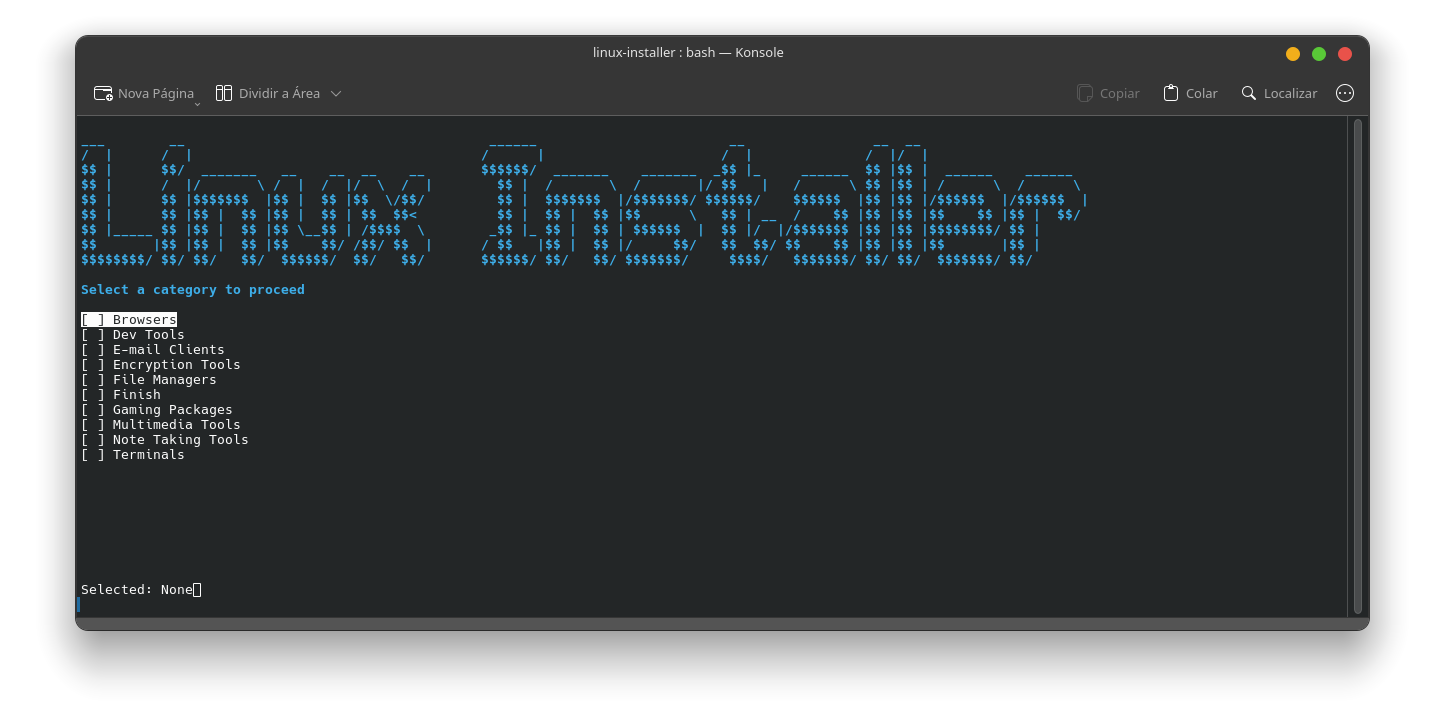
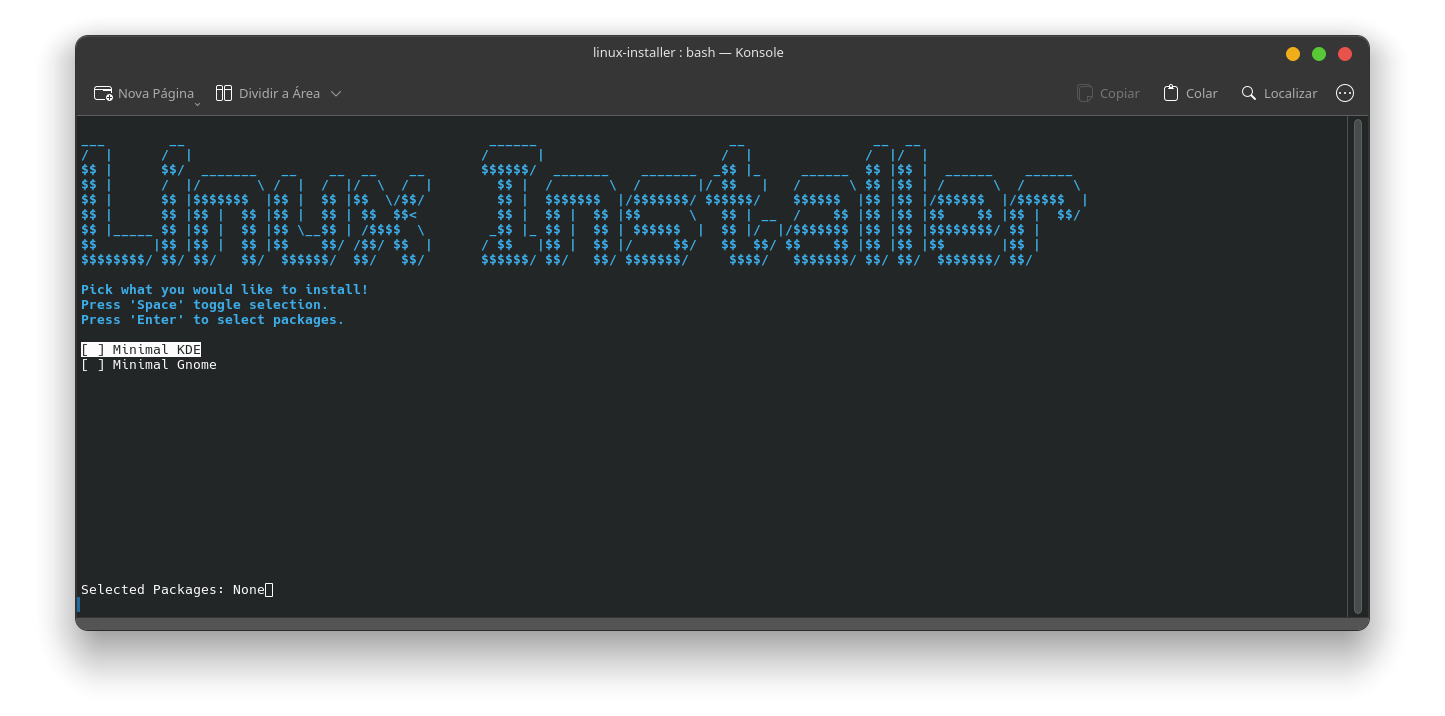
Added VPN clients section and other QoL updates

Changed region(s): [[0.0311, 0.3994, 0.2491, 0.6453], [0.0934, 0.7989, 0.1869, 0.8296]]

diff --git a/scripts/main/screen.py b/scripts/main/screen.py
@@ -146,7 +146,7 @@ class Screen:
             for idx, line in enumerate(instructions):
                 self.display_str(line, 0, FIRST_ROW + idx)
 
-            #? Display selection options. ('Name' field of the dictionary)
+            #? Display selection options. ('Name' field of the dictionary).
             for idx, env in enumerate(packages):
                 col = idx % max_columns
                 row = idx // max_columns + FIRST_ROW + len(instructions) + 1
@@ -160,7 +160,7 @@ class Screen:
                 except curses.error:
                     pass
 
-            #? Display selected packages summary
+            #? Display selected packages summary.
             selected_list = [env.get("Name", str(env)) for idx, env in enumerate(packages) if selected[idx]]
             summary_str = "Selected Packages: " + (", ".join(selected_list) if selected_list else "None")
             try:
@@ -191,20 +191,23 @@ class Screen:
 
         return selected_list
     
-    def display_categories(self, items, title="Select a category to proceed", max_columns=1):
+    def display_categories(self, items, title="Select a category to proceed", max_columns=1, multiple=False):
         """
-        Displays a list of items as togglable checkbox options in the terminal UI.
+        Displays a list of items as togglable options in the terminal UI.
 
         Args:
-            items (list): List of strings to display as checkbox items.
+            items (list): List of strings to display as options.
             title (str): Title to display above the list.
             max_columns (int): Number of columns for the checkbox grid.
+            multiple (bool): If True, allows multiple selections (checkboxes), 
+                            else allows only one selection (radio buttons).
 
         Returns:
-            list: List of selected item strings.
+            list or str: List of selected item strings if multiple is True, 
+                        or the selected item string if False.
         """
         current_row = 0
-        selected = [False] * len(items)
+        selected_indices = [] if multiple else -1  # Track multiple selections or single selection
         finished = False
 
         while not finished:
@@ -212,22 +215,31 @@ class Screen:
             self.display_ascii_menu()
             self.display_str(title, 0, FIRST_ROW)
 
-            #? Display checkbox items
+            # Display items with appropriate selection indicators
             for idx, item in enumerate(items):
                 col = idx % max_columns
                 row = idx // max_columns + FIRST_ROW + 2
                 if row >= self.height - 3:
                     break
-                checkbox = "[x]" if selected[idx] else "[ ]"
+
+                if multiple:
+                    checkbox = "[x]" if idx in selected_indices else "[ ]"
+                else:
+                    checkbox = "[x]" if idx == selected_indices else "[ ]"
+
                 attr = curses.A_REVERSE if idx == current_row else curses.A_NORMAL
                 try:
                     self.stdscr.addstr(row, col * (self.width // max_columns), f"{checkbox} {item}", attr)
                 except curses.error:
                     pass
 
-            #? Display selected summary
-            selected_list = [item for idx, item in enumerate(items) if selected[idx]]
-            summary_str = "Selected: " + (", ".join(selected_list) if selected_list else "None")
+            # Display selected summary
+            if multiple:
+                selected_list = [items[idx] for idx in selected_indices] if selected_indices else []
+                summary_str = "Selected: " + (", ".join(selected_list) if selected_list else "None")
+            else:
+                summary_str = f"Selected: {items[selected_indices]}" if selected_indices != -1 else "Selected: None"
+
             try:
                 self.stdscr.addstr(self.height - 2, 0, summary_str[:self.width])
             except curses.error:
@@ -245,11 +257,24 @@ class Screen:
             elif self.is_key_right(key, current_row, max_columns, items):
                 current_row += 1
             elif self.is_key_toggle_select(key):
-                selected[current_row] = not selected[current_row]
+                if multiple:
+                    if current_row in selected_indices:
+                        selected_indices.remove(current_row)  # Deselect
+                    else:
+                        selected_indices.append(current_row)  # Select
+                else:
+                    selected_indices = current_row  # Set selected index to current row for single selection
             elif self.is_key_select(key):
-                finished = True
+                if multiple or selected_indices != -1:  # Finish if multiple selection or valid single selection
+                    finished = True
 
-            self.stdscr.clear()
+            # Ensure current_row is within valid bounds
+            current_row = max(0, min(current_row, len(items) - 1))
 
         self.close()
-        return selected_list
+        
+        if multiple:
+            return [items[idx] for idx in selected_indices]  # Return list of selected items
+        if selected_indices != -1:
+            return items[selected_indices]  # Return format for single selection
+        return None  # Return None if no selection was made

diff --git a/scripts/main/installer.py b/scripts/main/installer.py
@@ -1,6 +1,6 @@
 from datetime import datetime
 import logging
-from packages import BROWSERS, DEV_TOOLS, EMAIL_CLIENTS, ENCRYPTION_TOOLS, FILE_MANAGERS, GAMING_PACKAGES, MULTIMEDIA_TOOLS, NOTE_TAKING_APPS, TERMINALS
+import packages
 import os
 import subprocess
 
@@ -36,9 +36,15 @@ class Installer:
             Path to the log file for installation logs.
         """
         self.DISTRO = os.environ['DISTRO_ID']
-        self.FONT_PKGS=["fonts-font-awesome", "fonts-recommended", "fonts-roboto", "fonts-terminus"]
-        self.UTILITY_PKGS=["curl", "flatpak", "git", "gpg", "libavcodec-extra", "libspa-0.2-bluetooth", "neofetch", "pipewire", "pipewire-alsa", "pipewire-pulse", "software-properties-common", "vim", "zram-tools"]
-        self.all_packages = BROWSERS + DEV_TOOLS + EMAIL_CLIENTS + ENCRYPTION_TOOLS + FILE_MANAGERS + GAMING_PACKAGES + MULTIMEDIA_TOOLS + NOTE_TAKING_APPS + TERMINALS
+        self.FONT_PKGS = []
+        self.UTILITY_PKGS = []
+        for item in packages.COMMON["FONTS"]:
+            if item["Distro"] == self.DISTRO:
+                self.FONT_PKGS=item["Packages"]
+        for item in packages.COMMON["UTILITY_PACKAGES"]:
+            if item["Distro"] == self.DISTRO:
+                self.UTILITY_PKGS=item["Packages"]
+        self.all_packages = packages.BROWSERS + packages.DEV_TOOLS + packages.EMAIL_CLIENTS + packages.ENCRYPTION_TOOLS + packages.FILE_MANAGERS + packages.GAMING_PACKAGES + packages.MULTIMEDIA_TOOLS + packages.NOTE_TAKING_APPS + packages.TERMINALS
         self.apt_packages = []
         self.custom_packages = []
         self.flatpak_packages = []
@@ -188,21 +194,16 @@ class Installer:
 
     def setup_firewall(self):
         """
-        Sets up and enables the UFW firewall with default rules.
+        Sets up the firewall by executing a custom script.
 
-        This method installs UFW if it is not already installed, enables it,
-        sets the default incoming and outgoing rules, and displays the firewall status.
+        This method runs a shell script located in the specified directory
+        to configure the firewall settings. The script is executed as a
+        subprocess, and a message is displayed to indicate the operation.
 
-        Returns
-        -------
-        None
-
-        Notes
-        -----
-        - Incoming connections are denied by default.
-        - Outgoing connections are allowed by default.
+        Raises:
+            subprocess.SubprocessError: If the subprocess execution fails.
         """
-        self.execute_subprocess("sudo apt install ufw -y && sudo ufw enable && sudo ufw default deny incoming && sudo ufw default allow outgoing && sudo ufw status verbose", "Installing UFW firewall...")
+        self.execute_subprocess(f"{SCRIPT_DIR}/scripts/custom/Firewalls/ufw.sh", "Setting up the Firewall...")
 
     def setup_dns(self, server):
         """
@@ -212,3 +213,18 @@ class Installer:
         :type server: str
         """
         self.execute_subprocess(f"{SCRIPT_DIR}/scripts/custom/dns.sh {server}", f"Setting up {server} DNS...")
+    
+    def setup_vpn(self, client):
+        """
+        Set up a VPN client by executing the corresponding setup script.
+
+        This method runs a shell script located in the custom VPNs directory
+        to configure the specified VPN client.
+
+        :param client: The name of the VPN client to set up. This should match
+                       the name of the corresponding shell script (without the .sh extension).
+                       Example: 'openvpn', 'wireguard'.
+        :type client: str
+        :raises subprocess.CalledProcessError: If the subprocess execution fails.
+        """
+        self.execute_subprocess(f"{SCRIPT_DIR}/scripts/custom/VPNs/{client}.sh", f"Setting up {client.capitalize()} VPN...")

diff --git a/scripts/main/main.py b/scripts/main/main.py
@@ -2,8 +2,8 @@ from installer import Installer
 import packages
 from screen import Screen
 
-def read_input(list):
-    input = screen.display_categories(list)
+def read_input(list, multiple_allowed):
+    input = screen.display_categories(list, multiple=multiple_allowed)
     if not input:
         return read_input(list)
     return input
@@ -12,10 +12,14 @@ def install():
     installer.filter_app_packages(PACKAGES)
 
     installer.setup_firewall()
-    installer.setup_dns(DNS)
+    if DNS != "":
+        installer.setup_dns(DNS)
 
     installer.install_environment(list(env_pkgs))
     installer.install_app_packages()
+    
+    if VPN != "":
+        installer.setup_vpn(VPN)
 
 screen = Screen()
 installer = Installer()
@@ -25,6 +29,9 @@ STARTING_INSTRUCTIONS = [
     "Press 'Space' toggle selection.",
     "Press 'Enter' to select packages."
 ]
+
+DNS = ""
+VPN = ""
 
 browsers = []
 environment = []
@@ -44,17 +51,19 @@ for env in packages.ENVIRONMENTS:
         env_pkgs = env["Debian_Packages"]
 
 while True:
-    input = read_input(packages.CATEGORIES)
+    input = read_input(packages.CATEGORIES, multiple_allowed=False)
+    with open('output.txt', 'w') as file:
+        file.write(f"Input was: {input}\n")
 
-    match input[0]:
+    match input:
         case "0. Exit":
             break
         case "1. Applications":
             while True:
-                input = read_input(packages.APP_CATEGORIES)
-                if input[0] == "0. Exit":
+                input = read_input(packages.APP_CATEGORIES, multiple_allowed=False)
+                if input == "0. Exit":
                     break
-                match input[0]:
+                match input:
                     case "1. Browsers":
                         browsers = screen.display_menu(packages.BROWSERS, STARTING_INSTRUCTIONS)
                     case "2. Dev Tools":
@@ -77,10 +86,17 @@ while True:
                         pass
         case "2. DNS Servers":
             while True:
-                input = read_input(packages.DNS_SERVERS)
-                if input[0] == "0. Exit":
+                input = read_input(packages.DNS_SERVERS, multiple_allowed=False)
+                if input == "0. Exit":
                     break
-                DNS = input[0].split(" ", 1)[1]
+                DNS = input.split(" ", 1)[1]
+                break
+        case "3. VPN Clients":
+            while True:
+                input = read_input(packages.VPN_CLIENTS, multiple_allowed=False)
+                if input == "0. Exit":
+                    break
+                VPN = (input.split(" ", 1)[1]).lower()
                 break
 
 ENVIRONMENT_PACKAGES = list(env_pkgs)

diff --git a/scripts/main/packages.py b/scripts/main/packages.py
@@ -1,4 +1,21 @@
-CATEGORIES = ["0. Exit", "1. Applications", "2. DNS Servers"]
+CATEGORIES = ["0. Exit", "1. Applications", "2. DNS Servers", "3. VPN Clients"]
+
+COMMON = {
+    "FONTS": [
+        {
+            "Distro": "debian",
+            "Packages": ["fonts-font-awesome", "fonts-recommended", "fonts-roboto", "fonts-terminus"]
+        }
+    ],
+
+    "UTILITY_PACKAGES": [
+        {
+            "Distro": "debian",
+            "Packages": ["curl", "fastfetch", "flatpak", "git", "gnupg2", "gpg", "libavcodec-extra", "libspa-0.2-bluetooth", "pipewire", "pipewire-alsa", "pipewire-pulse", "vim", "zram-tools"]
+        }
+    ]
+}
+
 APP_CATEGORIES = [
     "0. Exit",
     "1. Browsers",
@@ -11,7 +28,10 @@ APP_CATEGORIES = [
     "8. Note Taking Tools",
     "9. Terminals",
 ]
+
 DNS_SERVERS = ["0. Exit", "1. Cloudflare", "2. Quad9", "3. Google"]
+
+VPN_CLIENTS = ["0. Exit", "1. Mullvad", "2. Proton"]
 
 ENVIRONMENTS = [
     {
@@ -29,6 +49,8 @@ ENVIRONMENTS = [
             "gnome-session",
             "gnome-software-plugin-flatpak",
             "gnome-terminal",
+            "gnome-text-editor",
+            "nautilus"
         ],
     },
 ]

diff --git a/README.md b/README.md
@@ -4,7 +4,11 @@ This project provides a modular and extensible Linux installation toolkit, inclu
 
 ![Preview](./assets/cli_preview.png)
 
+![Preview](./assets/cli_preview_2.png)
+
 ## Folder Structure
+
+- logs/ : Generated during `init.sh` executing; Folder containing installation logs.
 
 - scripts/main/ : Contains the main Python modules and utilities for the installer:
 
@@ -16,9 +20,8 @@ This project provides a modular and extensible Linux installation toolkit, inclu
 
 - scripts/custom/ : Custom shell scripts for installing and configuring specific applications:
 
-  - `docker.sh`: Docker installation and setup.
-  - `veracrypt.sh`: VeraCrypt installation and setup.
-  - `vscodium.sh`: VSCodium installation and setup.
+  - Firewalls/: Custom Firewall install scripts.
+  - VPNs/: Custom VPN clients install scripts.
 
 - `init.sh` : Main shell script to initialize the installer, detect the Linux distribution, and launch the Python installer.
 
